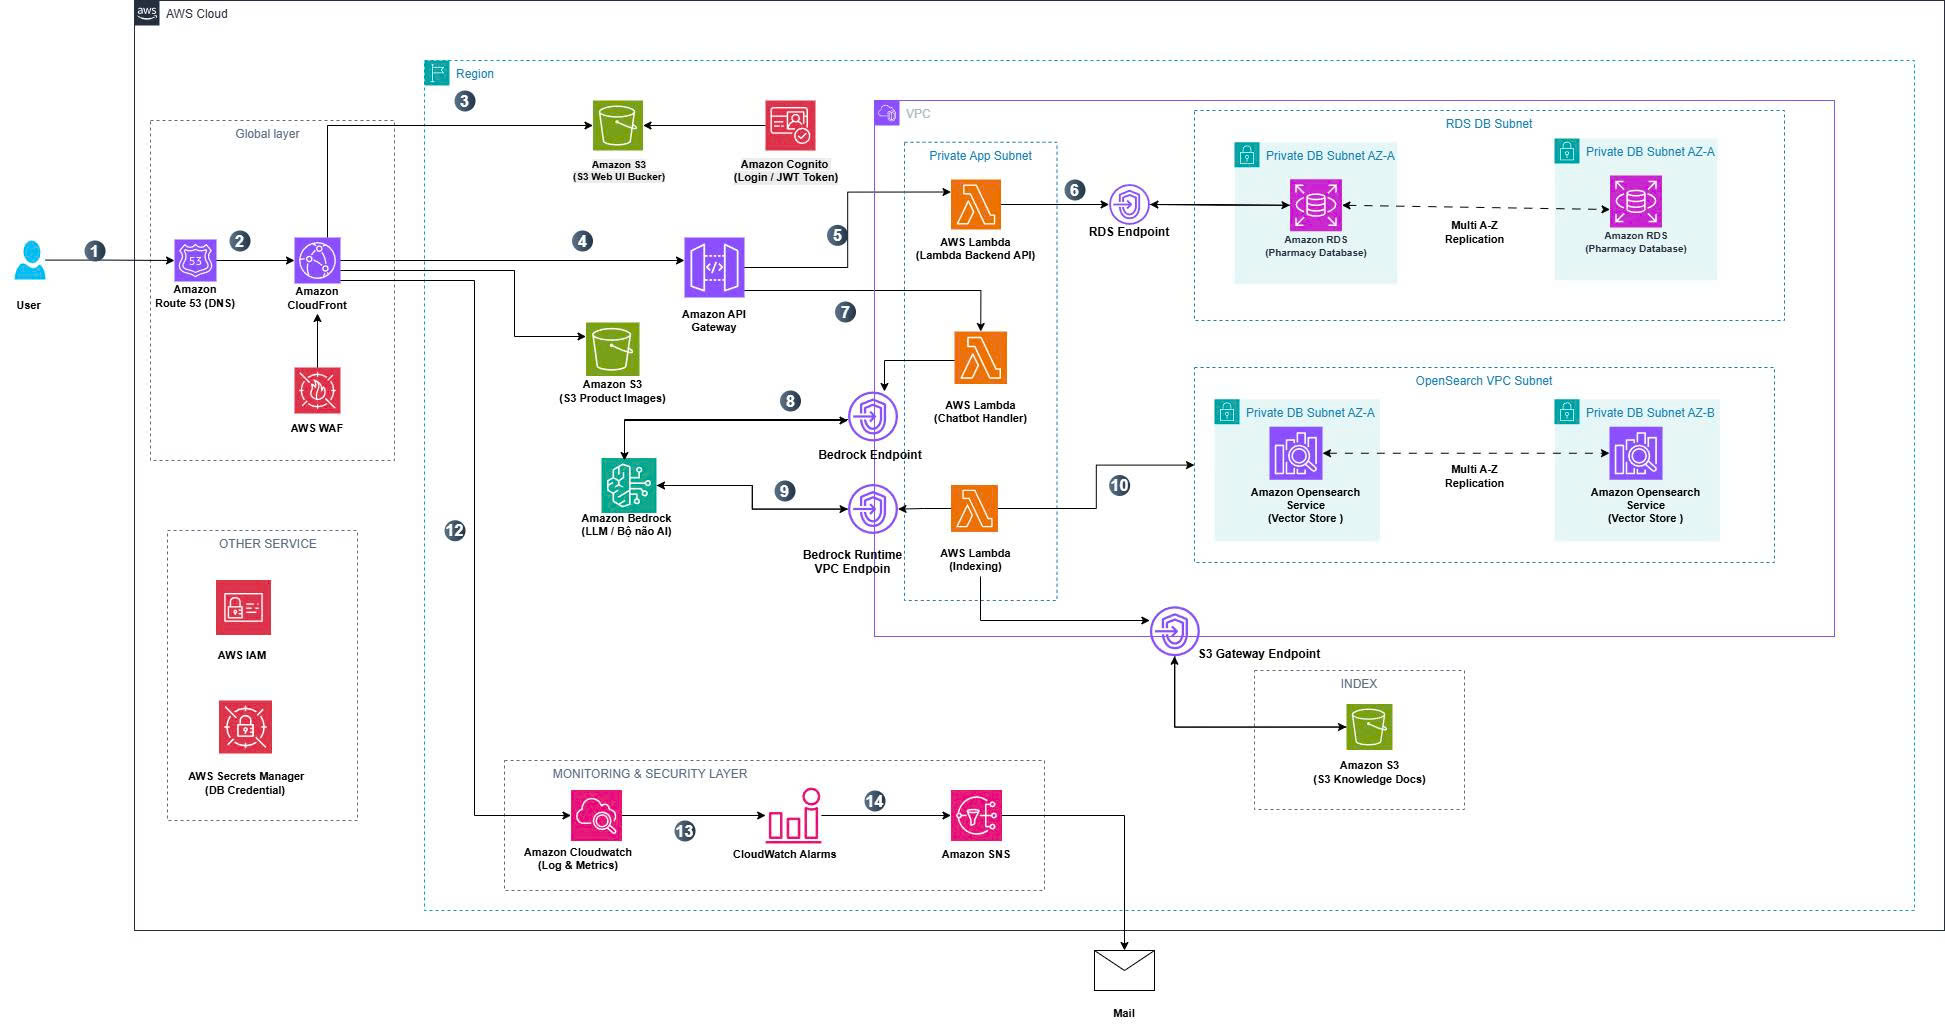
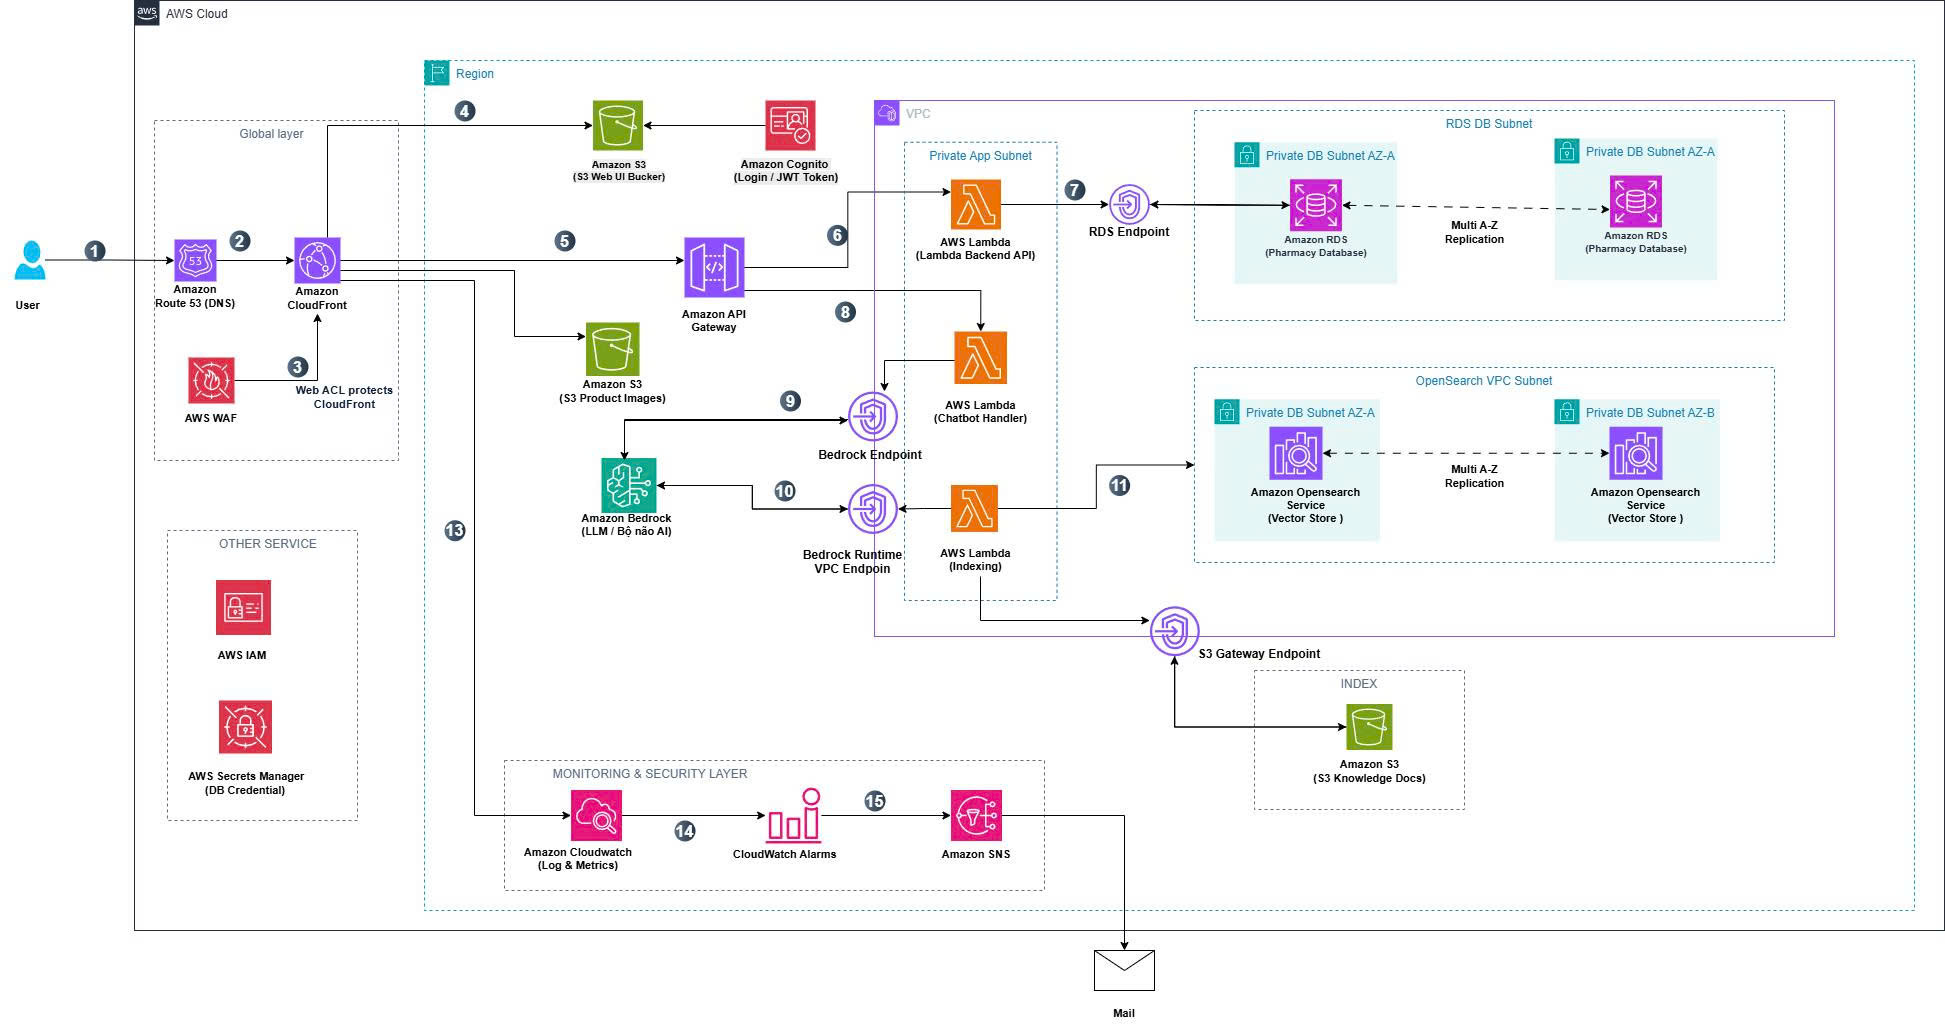
Update internship portfolio

diff --git a/content/_index.md b/content/_index.md
@@ -6,11 +6,6 @@ chapter: false
 ---
 
     
-# Internship Report
-
-{{% notice warning %}}
-⚠️ **Note:** The information below is for reference purposes only. Please **do not copy verbatim** for your report, including this warning.
-{{% /notice %}}
 
 ### Student Information:
 &emsp; **Full Name:** Huỳnh Anh Khoa 

diff --git a/content/_index.vi.md b/content/_index.vi.md
@@ -7,10 +7,6 @@ chapter: false
 
 # Báo cáo thực tập
 
-{{% notice info %}}
-📄 **Giới thiệu:** Đây là báo cáo tổng hợp toàn bộ quá trình thực tập của em tại **First Cloud AI Journey (FCAJ)**. Nội dung báo cáo trình bày quá trình học tập, các công việc đã thực hiện, đề tài phát triển, các bài viết kỹ thuật, workshop đã tham gia cũng như những kiến thức và kinh nghiệm tích lũy được trong suốt 12 tuần thực tập.
-{{% /notice %}}
-
 ## Thông tin sinh viên
 
 &emsp; **Họ và tên:** Huỳnh Anh Khoa